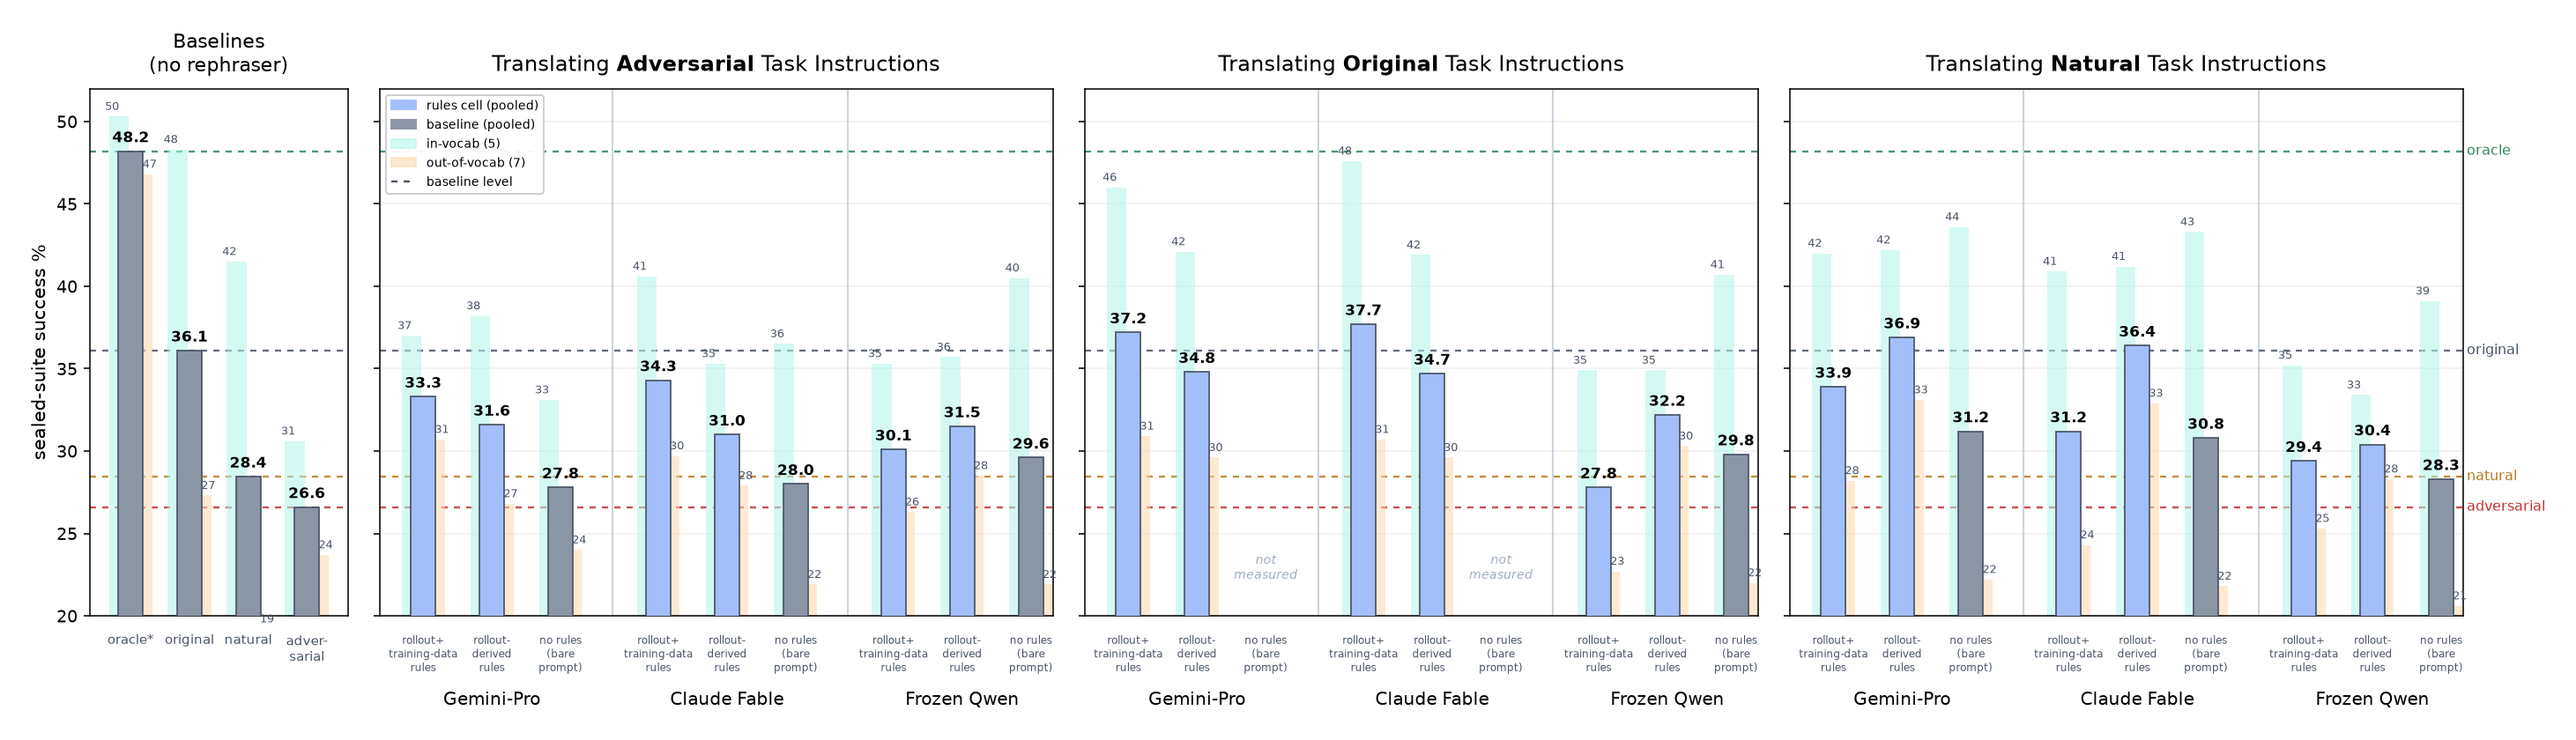
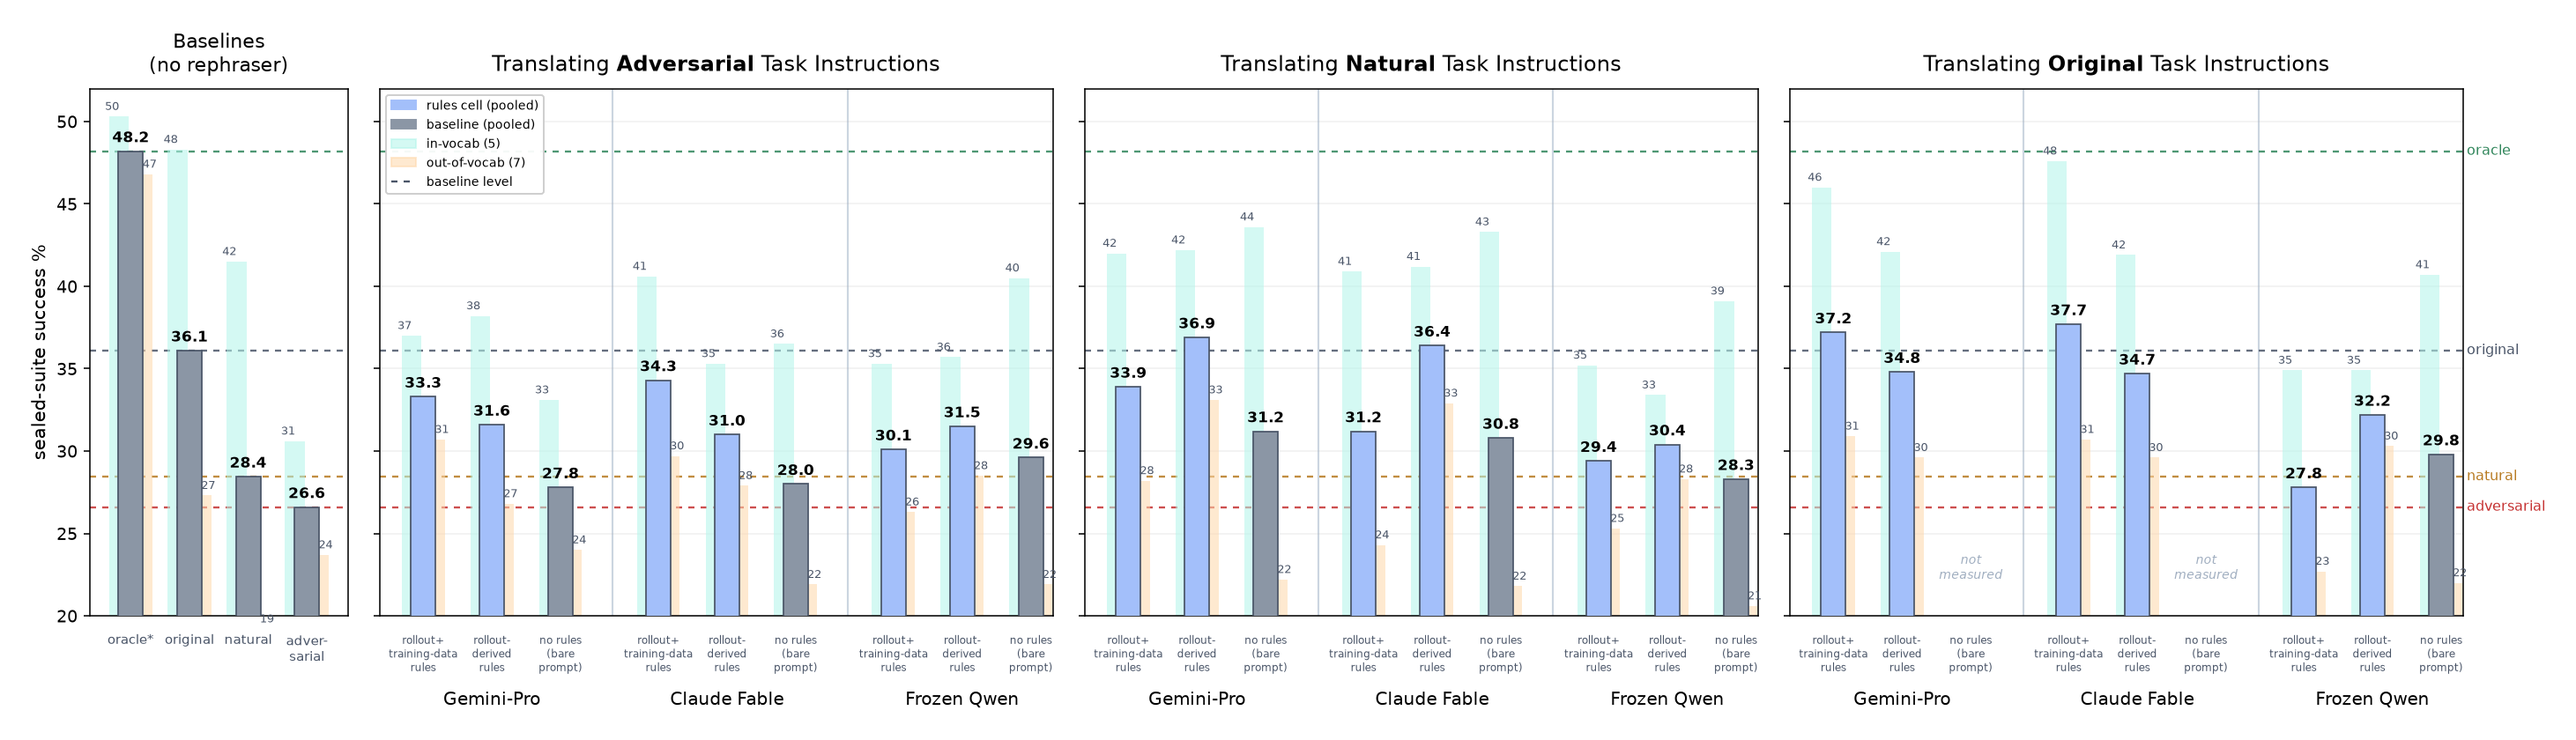
results figure: panel order Adversarial / Natural / Original

diff --git a/scripts/make_results_translating.py b/scripts/make_results_translating.py
@@ -70,7 +70,7 @@ axB.set_xticks([])
 axB.set_ylabel("sealed-suite success %", fontsize=11)
 
 # ---------------- condition panels ----------------
-for ax, cond in zip(axes[1:], ["Adversarial", "Original", "Natural"]):
+for ax, cond in zip(axes[1:], ["Adversarial", "Natural", "Original"]):
     x = 0.0
     ticks, tlabels = [], []
     for mi, model in enumerate(MODELS):
